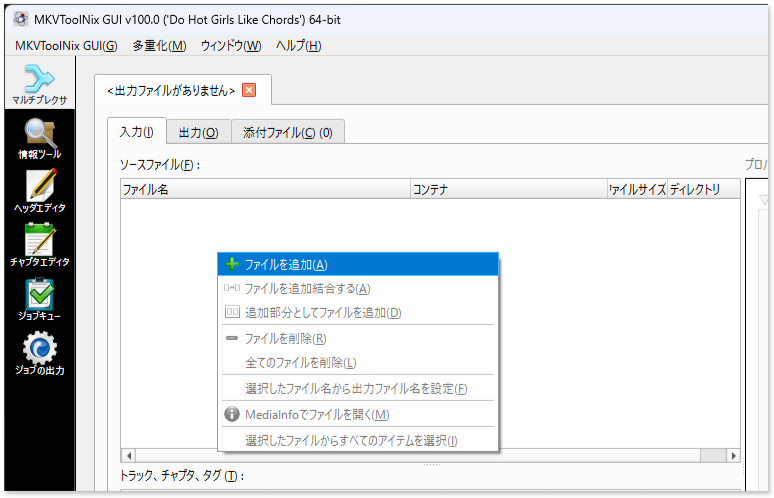
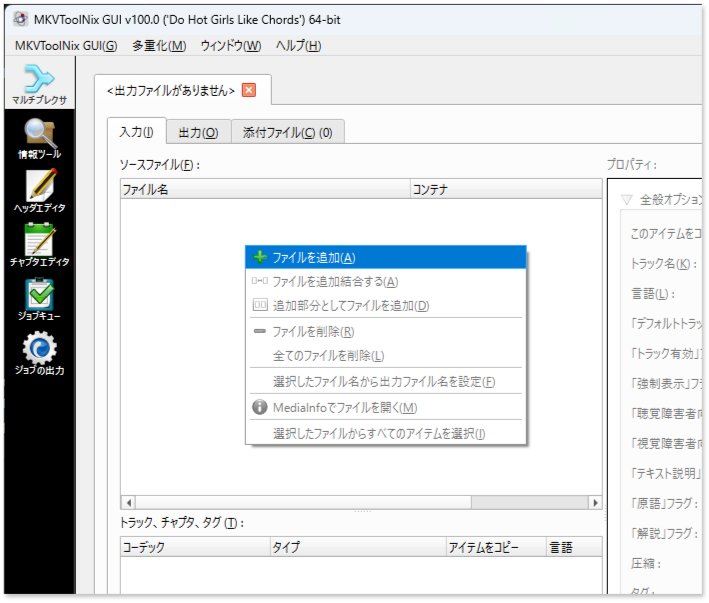
mkvtoolnixの詳細手順追加

Changed region(s): [[0.0, 0.0, 0.9929, 0.994], [0.9619, 0.1506, 0.9929, 0.241], [0.7137, 0.512, 0.7447, 0.5422]]

diff --git a/source/pre-process/index.md b/source/pre-process/index.md
@@ -46,17 +46,61 @@ AC3
 
 ## blu-rayディスク用MKVファイル作成
 
-kdenliveで出力する単位は、部毎に分けられてますので、次の目的によりこれを連続した一つの動画へ変換を行います。
+Blu-rayにはDVDのようなタイトルを持たないため、連続した動画として構成します。このため、MKVという形式で部毎に分かれた動画を一本の動画に結合します。
 
-* Blu-rayにはDVDのようなタイトルを持たないため、連続した動画として構成します。このため、MKVという形式で部毎に分かれた動画を一本の動画に結合します。
+### 手順
 
-* 後ほどBlu-rayオーサリングする際には、一本の動画にチャプターを設定し、各プログラムの頭出しを可能にします。また、演目が始まると、個々に字幕によるタイトル表示が必要です。このため、頭出し時刻、字幕データをExcelなどの表計算ソフトでまとめるため、参照用の動画としてMKV動画を使用します。
+::::{grid} 2
+:::{grid-item} 
+![](assets/mkvtoolnix_add_1st.png){align=center}
+:::
+:::{grid-item}  1つ目のMP4ファイルの追加
 
-最初に、設定イメージを見ていただく方が理解が早いと思います。次図のとおり、ソースファイルに示されているのはkdnliveによりレンダリングしたmp4ファイルとac3ファイルです。このコンサートのプログラムは1部～4部まで構成されていて、事前に各部毎に個別のmp4, ac3ファイルをエクスポートしています。
+1. ソースファイルウィンドウ上で右クリックし、 **ファイルを追加( <u>A</u>)** を選びます。
+2. ファイル選択からmp4ファイルを選択します。
+:::
+:::{grid-item}
+![](assets/mkvtoolnix_add_2nd.png){align=center}
+:::
+:::{grid-item}  2つ目のMP4ファイルの結合
+
+選択されたmp4ファイルが一覧されますので、ここに別のmp4ファイルを結合します。結合したいmp4を選んで右クリックし、**ファイルを追加結合する(<u>A</u>)** を選択します。
+:::
+:::{grid-item}
+![](assets/mkvtoolnix_add_2nd_after.png){align=center}
+:::
+:::{grid-item} 2つ目のMP4ファイルを追加した状態
+
+追加結合されたファイルは、結合元ファイルのツリーの子として一覧されます。同様の方法で第1部～第4部のようにプログラム部構成毎に個別に出力したmp4ファイルをすべて結合してください。
+:::
+:::{grid-item}
+![](assets/mkvtoolnix_add_ac3.png){align=center}
+:::
+:::{grid-item} AC-3ファイルの追加
+
+mp4ファイルに含まれる音声コーデックはAACですが、blu-rayには最大5.1チャンネルのサラウンド音声に対応したドルビー LABORATORIES（Dolby）の音声圧縮技術であるAC-3が使われています。kdenliveでレンダリングしたAC-3を同様に読み込みます。
+:::
+:::{grid-item}
+![](assets/mkvtoolnix_add_ac3_after.png){align=center}
+:::
+:::{grid-item} AC-3についても同様にツリー状に結合します。
+:::
+:::{grid-item}
+![](assets/mkvtoolnix_including.png){align=center}
+:::
+:::{grid-item} 下部の **トラック、チャプタ、タグ（<u>T</u>）** 不要なデータを削除します。
+
+* AAC音声コーデックはすべてチェックを外します。
+* グローバルタグは先頭の1つだけにします。
+:::
+::::
+
+以上の設定を行ったら、保存先ファイルに保存先のMKVファイル名を指定し、その下の **マルチプレクシングを開始(<u>R</u>)** ボタンを押すと変換が開始されます。右下の **進行状況：** に変換の進捗が確認できます。左側のメータは0%, 右側のメータが100%となると変換の完了です。
 
 ![](assets/mkvtoolnix_total.png){align=center}
 
-これを読み込み、bul-rayに必要な、H.264形式の動画と、AC-3形式の音声のみにチェックを入れて、下部にある「マルチプレクシングを開始」ボタンを押すことで、その上の保存先ファイル名に記載しているMKVファイルを保存します。
+
+処理が完了したら保存先に指定したMKVファイルを取り出してください。
 
 (section_chapter_cue)=
 ## チャプター割り設定一覧作成
